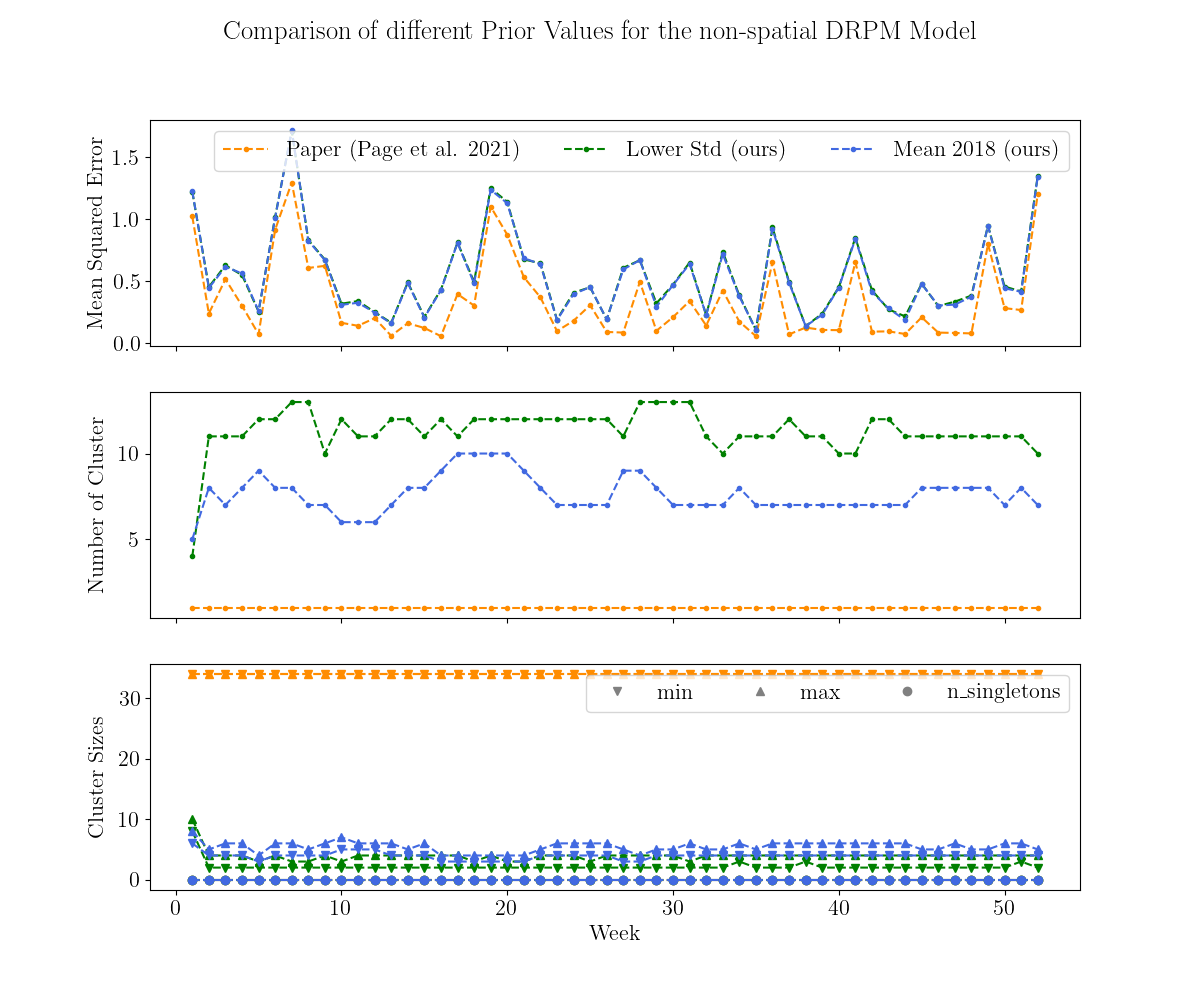
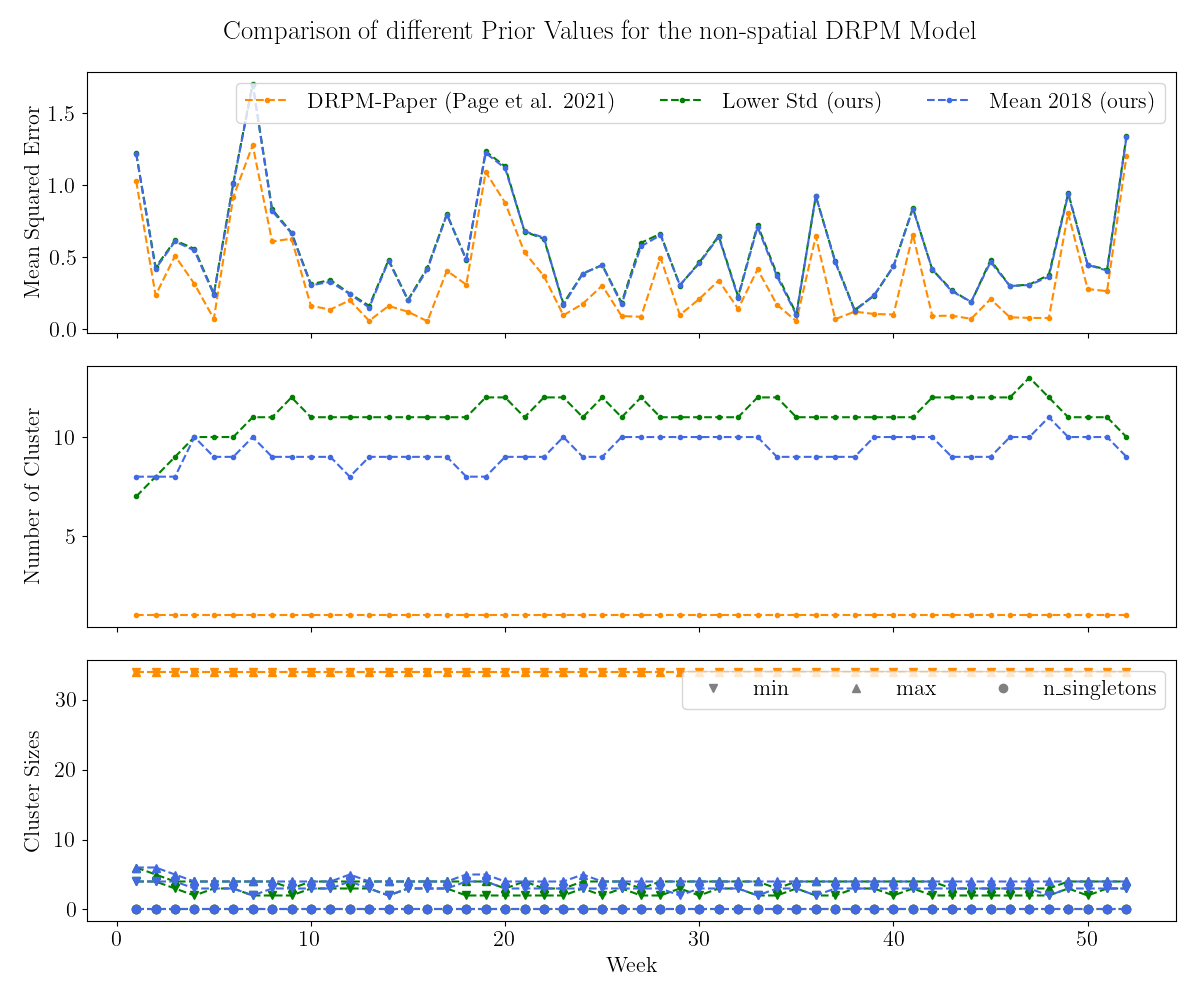
add experiments reults

diff --git a/src/plots_drpm.py b/src/plots_drpm.py
@@ -26,7 +26,7 @@ def plot_overview(
     filename: str = "drpm_base_models_comparison",
     title: str = "",
 ):
-    fig, ax = plt.subplots(nrows=3, ncols=1, figsize=(12, 10), sharex=True)
+    fig, ax = plt.subplots(nrows=3, ncols=1, figsize=(10, 12), sharex=True)
 
     weeks = np.arange(1, 53, step=1)
     colors = ["darkorange", "green", "royalblue"]
@@ -141,8 +141,8 @@ def main():
         # for prior in ["paper_params"]:
         print(prior)
         drpm_args = {
-            "M": 0.001,  # TODO: always the best?
-            "starting_alpha": 0.5,  # TODO: always the best?
+            "M": 0.1,  # TODO: always the best?
+            "starting_alpha": 0.25,  # TODO: always the best?
             "unit_specific_alpha": False,  # diff alpha for each station --> prior needs to be adjusted
             "time_specific_alpha": True,  # diff alpha is drawn for each time-step
             "alpha_0": False,

diff --git a/report/tables/standalone_table/experiment_results.tex b/report/tables/standalone_table/experiment_results.tex
@@ -16,7 +16,7 @@
 \begin{document}
 
 \input{../drpm_nospatial_large_experiment_paper_params.tex}
-% \input{../drpm_nospatial_large_experiment_smaller_std.tex}
+\input{../drpm_nospatial_large_experiment_smaller_std.tex}
 \input{../drpm_nospatial_large_experiment_mean_prev_year.tex}
 \newpage
 \input{../drpm_spatial_large_experiment_paper_params.tex}
